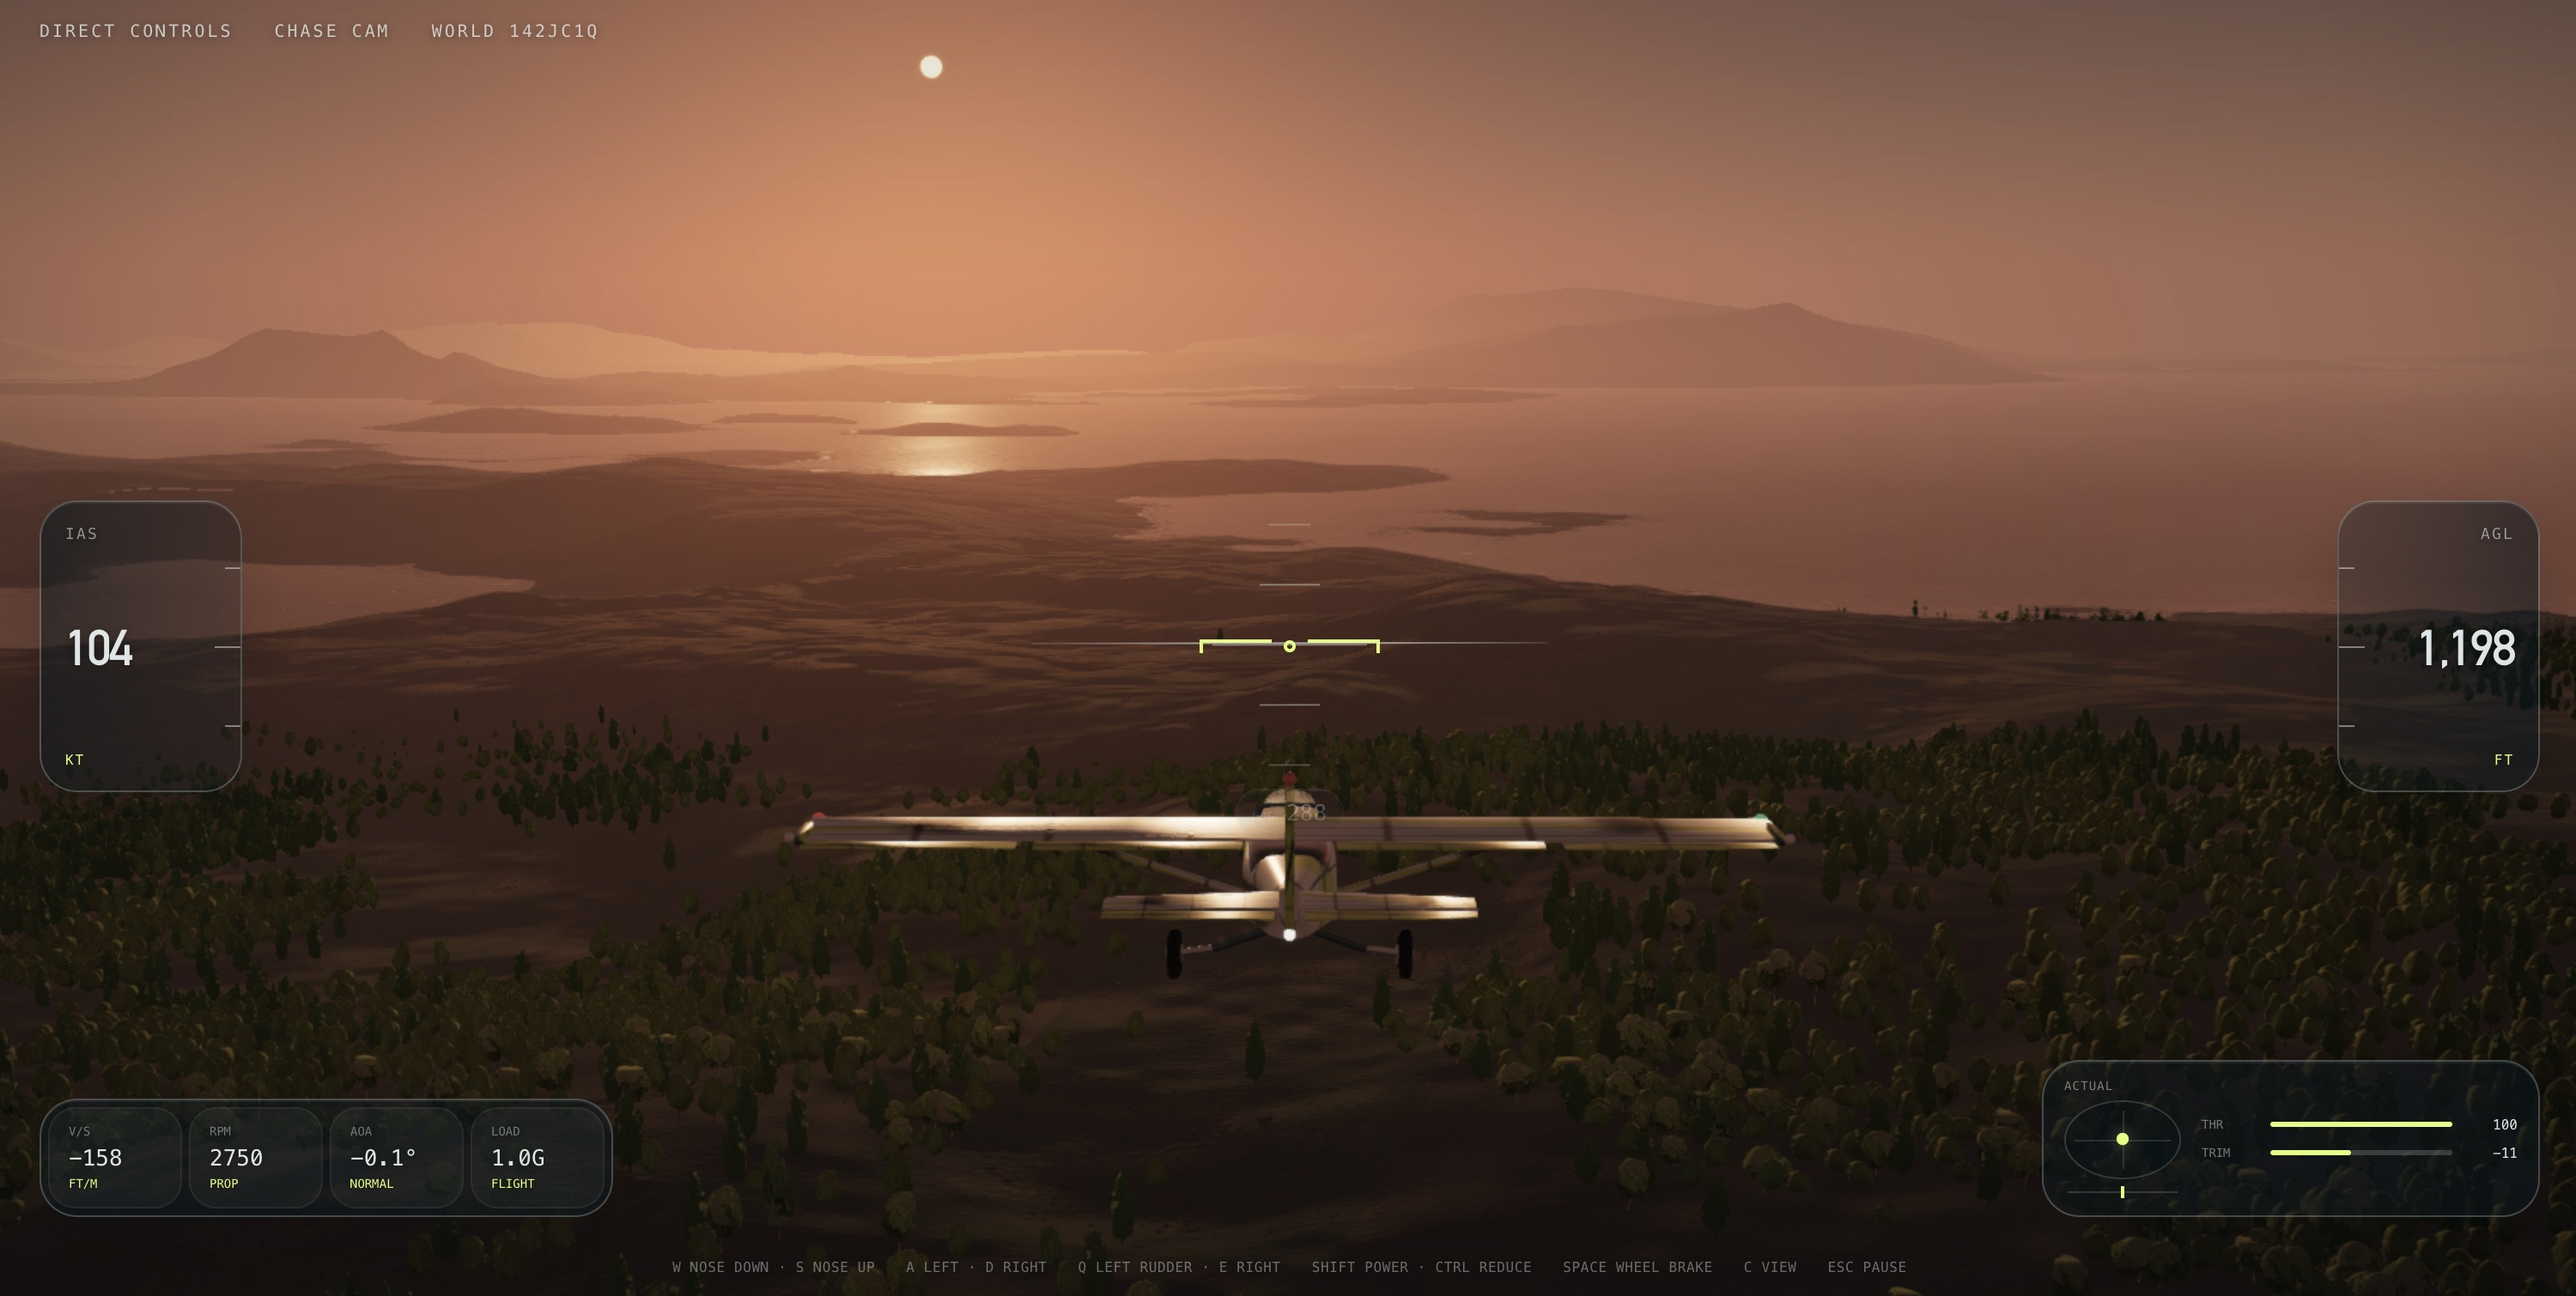
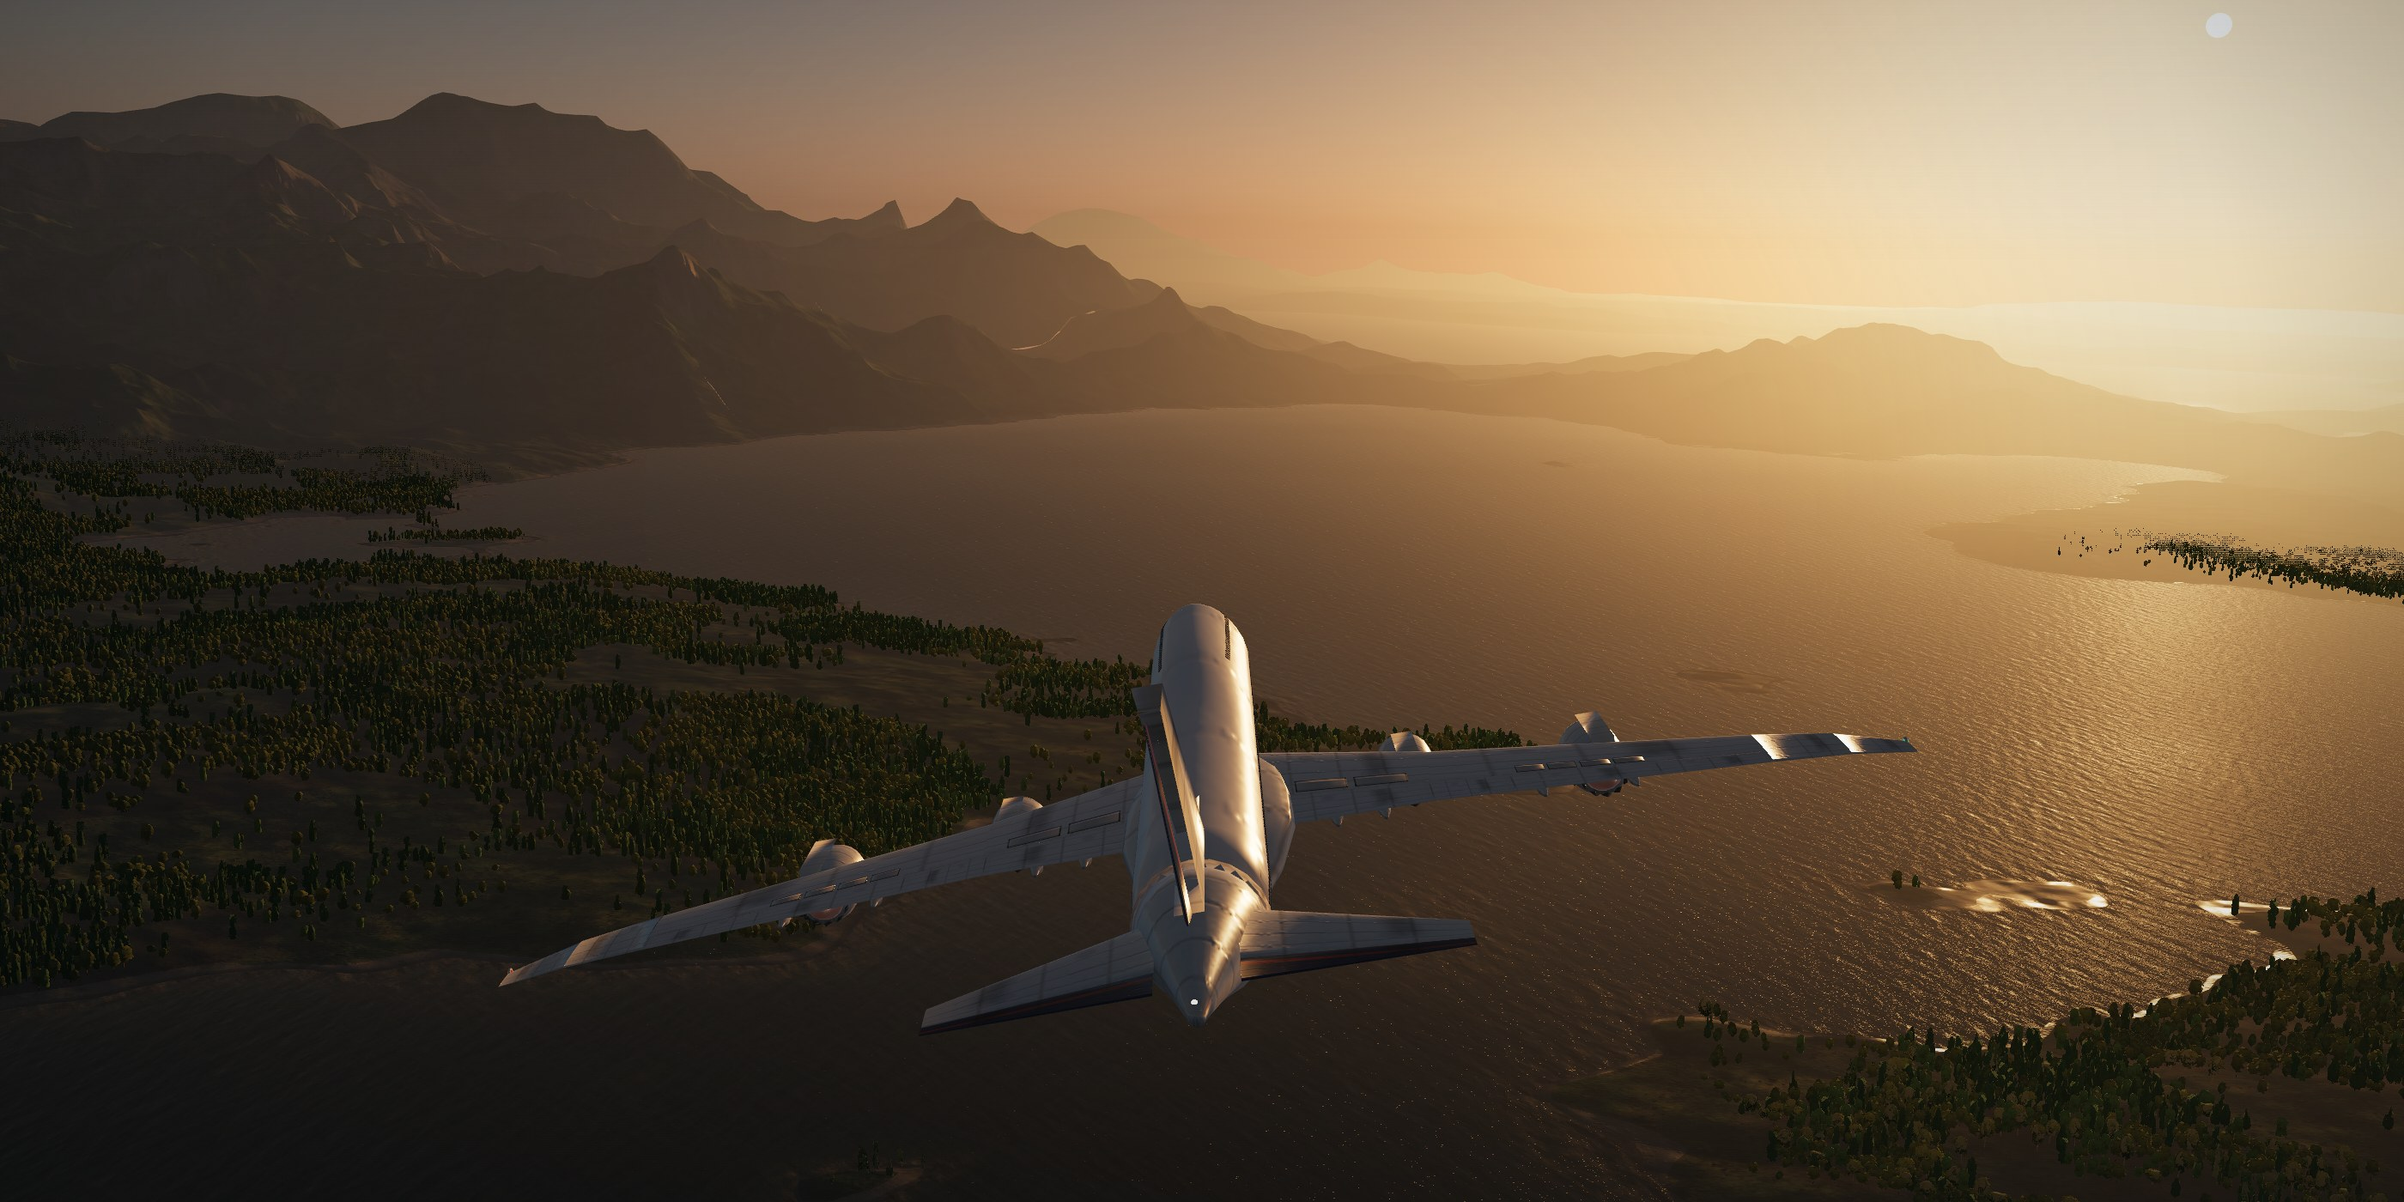
Replace the README screenshot with a current one
A Boeing 747-8 banking over a coast at sunset, rendered from main at the
Ultra tier (2800x1400): the same renderer, world streaming and camera the
game uses, without the HUD.

Claude-Session: https://claude.ai/code/session_014t6bGn7fMHWmNHnRccwHWS

diff --git a/README.md b/README.md
@@ -1,6 +1,6 @@
 # fly high
 
-![fly high](flyhigh.jpeg)
+![A Boeing 747-8 banking over a coast at sunset in fly high](flyhigh.jpeg)
 
 Built with TypeScript, React, and Babylon.js on WebGPU.
 
